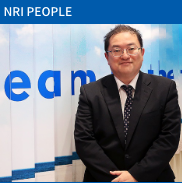
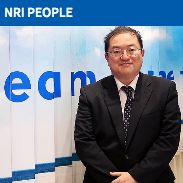
課題の修正完了 ・SNS Shareボタンを縦方向に中央ぞろえ ・table-cellを使って実装 ・画像をfire foxのデベロッパーツールからスクショで差し替え

diff --git a/quelcode_kadai1.css b/quelcode_kadai1.css
@@ -125,22 +125,28 @@ p.n-5 img {
 	width:100%;
 }
 
+
+
 /* shareボタンのCSS　*/
 
 .share-botton {
-	text-align:right;
-	padding: 20px 200px 20px 0px;
+	padding: 20px 180px;
+	border-collapse: separate;
+	border-spacing: 20px 0;
+	float: right;
 }
 
+
 .sns-share {
-	align-items: center;
+	display: table;
 }
 
 
 .sns-share li {
-	display: inline-flex;
 	list-style: none;
-	margin-left: 15px;
+	display:table-cell;
+	vertical-align: middle;
+	table-layout: fixed;
 }
 
 
@@ -151,6 +157,7 @@ h2 {
 	color: black;
 	padding: 20px 0px 20px 0px;
 	vertical-align: baseline;
+	clear:both;
 }
 
 h2:before {
